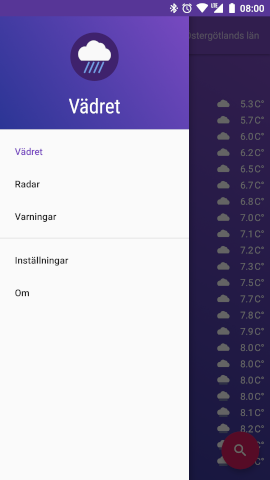
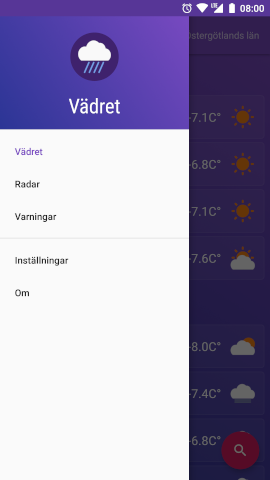
fixes #94 -- layout broken on fontscale > 1

Changed region(s): [[0.7111, 0.1875, 0.9778, 0.9688], [0.8889, 0.9688, 0.9185, 1.0], [0.6222, 0.0, 0.6519, 0.0312]]

diff --git a/app/src/main/java/fi/kroon/vadret/presentation/MainActivity.kt b/app/src/main/java/fi/kroon/vadret/presentation/MainActivity.kt
@@ -18,6 +18,7 @@ import fi.kroon.vadret.utils.extensions.splitBySpaceTakeFirst
 import fi.kroon.vadret.utils.extensions.toGone
 import fi.kroon.vadret.utils.extensions.toVisible
 import kotlinx.android.synthetic.main.activity_main.*
+import kotlinx.android.synthetic.main.nav_header.view.*
 import timber.log.Timber
 
 class MainActivity : AppCompatActivity() {
@@ -42,6 +43,18 @@ class MainActivity : AppCompatActivity() {
         PreferenceManager.setDefaultValues(this, DEFAULT_PREFERENCES, MODE_PRIVATE, R.xml.preferences, false)
 
         binding.navigationView.setupWithNavController(navController)
+        hideAppName()
+    }
+
+    fun hideAppName() {
+        val systemScale: Float = resources.displayMetrics.density
+        val fontScale: Float = resources.configuration.fontScale
+        Timber.d("System scale: $systemScale")
+        Timber.d("Font scale: $fontScale")
+
+        if (fontScale > 1.0 || systemScale > 2.625) {
+            toolBar.title = ""
+        }
     }
 
     override fun onSupportNavigateUp(): Boolean {

diff --git a/app/src/main/java/fi/kroon/vadret/presentation/adapter/ForecastAdapter.kt b/app/src/main/java/fi/kroon/vadret/presentation/adapter/ForecastAdapter.kt
@@ -49,12 +49,6 @@ class ForecastAdapter @Inject constructor() : RecyclerView.Adapter<RecyclerView.
                 if (it.name == "t") {
                     Timber.d("t: ${it.values[0]}")
                     itemView.temperature.text = it.values[0].toString()
-                } else if (it.name == "r") {
-                    Timber.d("r: ${it.values[0]}")
-                    itemView.r.text = it.values[0].toInt().toString()
-                } else if (it.name == "gust") {
-                    Timber.d("gust: ${it.values[0]}")
-                    itemView.gust.text = it.values[0].toString()
                 } else if (it.name == "Wsymb2") {
                     Timber.d("wsymb2: ${it.values[0]}")
                     itemView.wsymb2.setText(handleWsymb2Description(it.values[0].toInt()))

diff --git a/app/src/main/java/fi/kroon/vadret/presentation/WeatherFragment.kt b/app/src/main/java/fi/kroon/vadret/presentation/WeatherFragment.kt
@@ -117,6 +117,7 @@ class WeatherFragment : BaseFragment() {
     override fun onResume() {
         super.onResume()
         showActionBar()
+        hideAppName()
     }
 
     override fun onViewCreated(view: View, savedInstanceState: Bundle?) {
@@ -288,6 +289,7 @@ class WeatherFragment : BaseFragment() {
 
     private fun hideActionBar() = (activity as MainActivity).hideActionBar()
     private fun showActionBar() = (activity as MainActivity).showActionBar()
+    private fun hideAppName() = (activity as MainActivity).hideAppName()
 
     private fun collapseSearchView() = nominatimSearch.toGone()
 

diff --git a/app/src/main/res/raw/changelog.md b/app/src/main/res/raw/changelog.md
@@ -5,6 +5,14 @@ and this project adheres to [Semantic Versioning](https://semver.org/spec/v2.0.0
 
 ## [Unreleased]
 
+## [0.1.4] -- 2018-11-27
+
+### Added
+- Refreshed UI on forecasts
+
+### Fixed
+- Layout no longer broken on larger scale factors
+
 ## [0.1.3] -- 2018-11-26
 
 ### Fixed
@@ -47,7 +55,8 @@ and this project adheres to [Semantic Versioning](https://semver.org/spec/v2.0.0
 - Radar imagery
 - 10 day weather forecast
 
-[Unreleased]: https://github.com/vadret/android/compare/0.1.3...HEAD
+[Unreleased]: https://github.com/vadret/android/compare/0.1.4...HEAD
+[0.1.4]: https://github.com/vadret/android/compare/0.1.3...0.1.4
 [0.1.3]: https://github.com/vadret/android/compare/0.1.2...0.1.3
 [0.1.2]: https://github.com/vadret/android/compare/0.1.1...0.1.2
 [0.1.1]: https://github.com/vadret/android/compare/0.1.0...0.1.1
